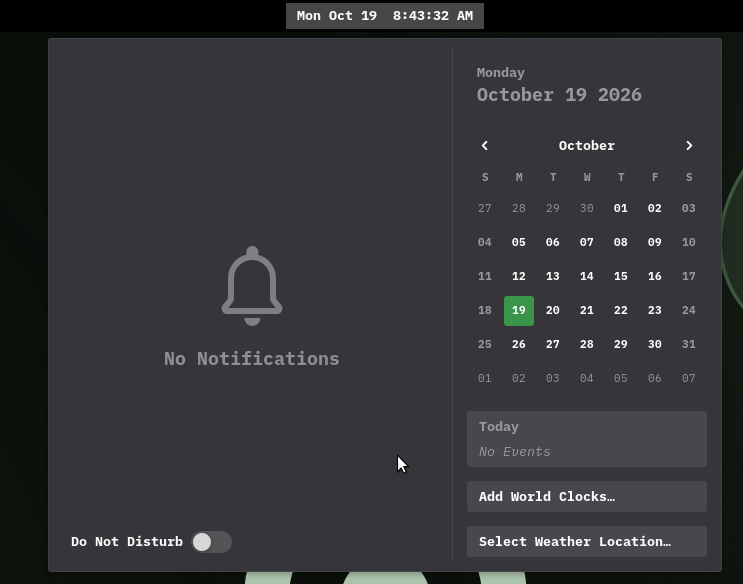
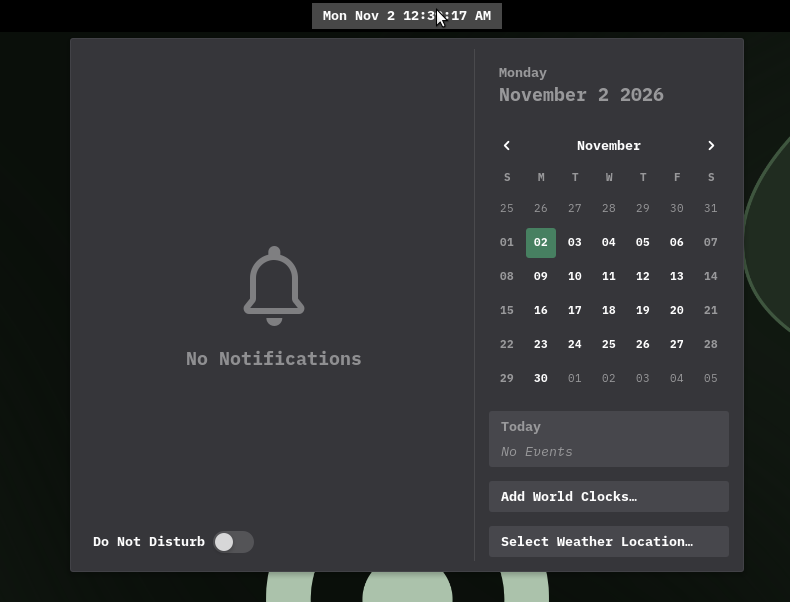
docs(readme): update screenshots, show the tray in Quick Settings

diff --git a/README.ru.md b/README.ru.md
@@ -7,11 +7,11 @@
 
 ## Скриншоты
 
-![Заголовки и кнопки окон в Vesktop, System Monitor, Text Editor, Files и Fractal](screenshots/windows.png)
+![Заголовки и кнопки окон в Vesktop, Files, Ptyxis и Fractal](screenshots/windows.png)
 
-| Быстрые настройки                                        | Календарь и уведомления                                   |
-| -------------------------------------------------------- | --------------------------------------------------------- |
-| ![Меню быстрых настроек](screenshots/quick-settings.png) | ![Меню календаря и уведомлений](screenshots/calendar.png) |
+| Быстрые настройки и трей                                                                 | Календарь и уведомления                                   |
+| ---------------------------------------------------------------------------------------- | --------------------------------------------------------- |
+| ![Меню быстрых настроек со значками трея внизу](screenshots/quick-settings-and-tray.png) | ![Меню календаря и уведомлений](screenshots/calendar.png) |
 
 | Меню Places | Меню Text Editor |
 | --- | --- |

diff --git a/README.md b/README.md
@@ -7,11 +7,11 @@ GNOME Shell extensions with their settings. Dark color scheme.
 
 ## Screenshots
 
-![Headerbars and window buttons in Vesktop, System Monitor, Text Editor, Files and Fractal](screenshots/windows.png)
+![Headerbars and window buttons in Vesktop, Files, Ptyxis and Fractal](screenshots/windows.png)
 
-| Quick settings                                         | Calendar and notifications                                   |
-| ------------------------------------------------------ | ------------------------------------------------------------ |
-| ![Quick settings menu](screenshots/quick-settings.png) | ![Calendar and notifications menu](screenshots/calendar.png) |
+| Quick settings and tray                                                                       | Calendar and notifications                                   |
+| --------------------------------------------------------------------------------------------- | ------------------------------------------------------------ |
+| ![Quick settings menu with tray icons at the bottom](screenshots/quick-settings-and-tray.png) | ![Calendar and notifications menu](screenshots/calendar.png) |
 
 | Places menu | Text Editor menu |
 | --- | --- |
